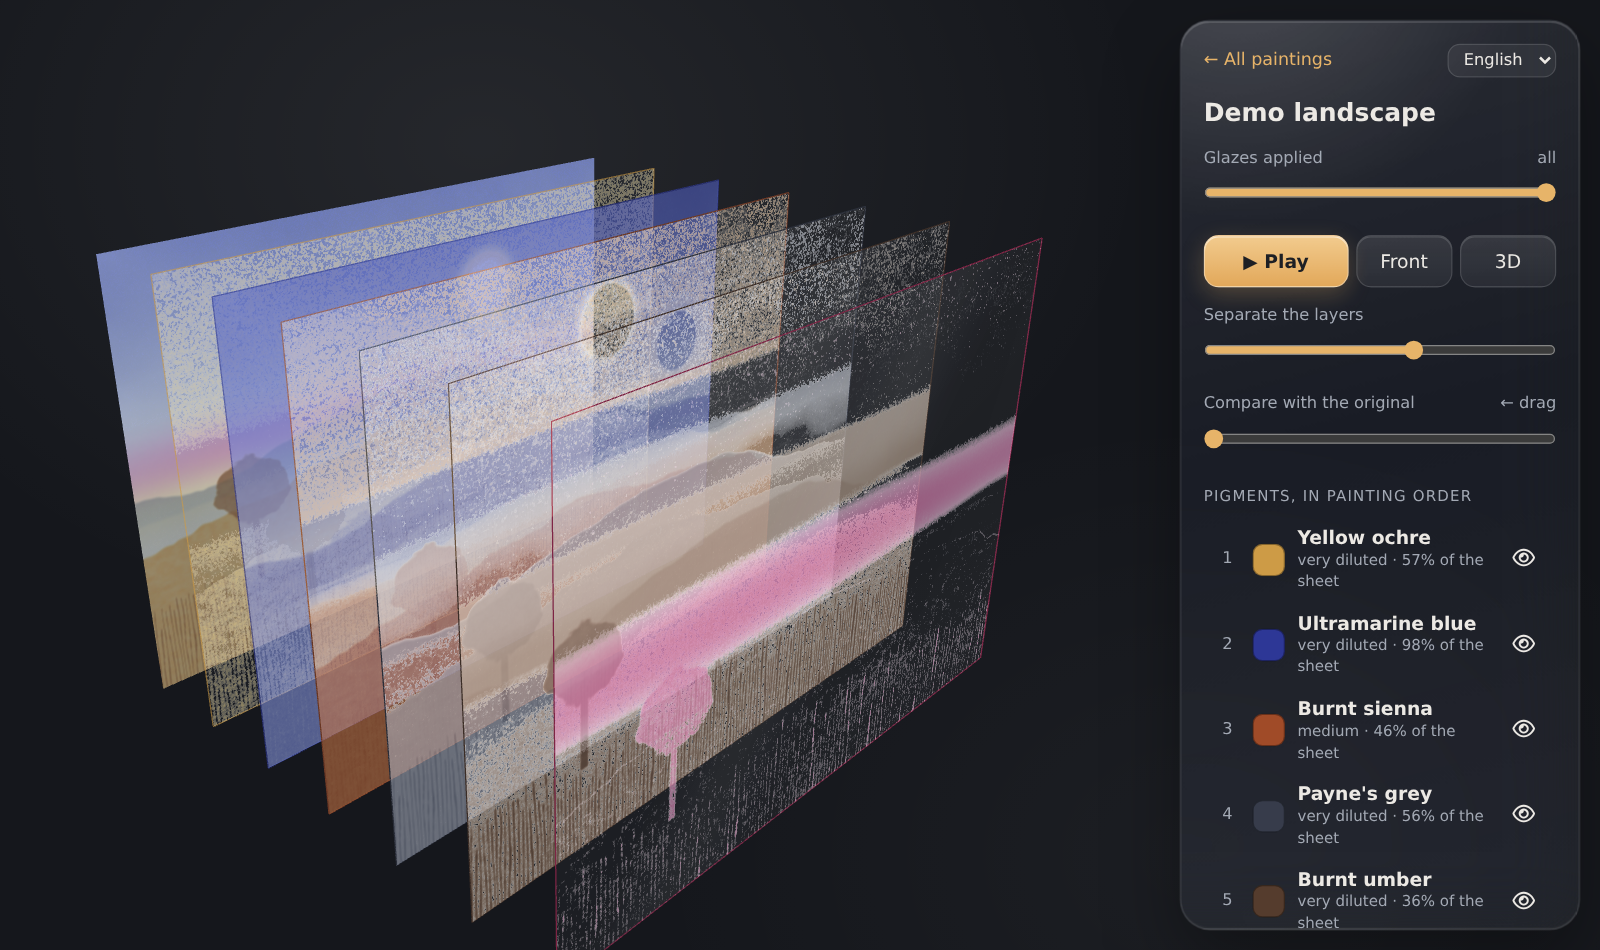
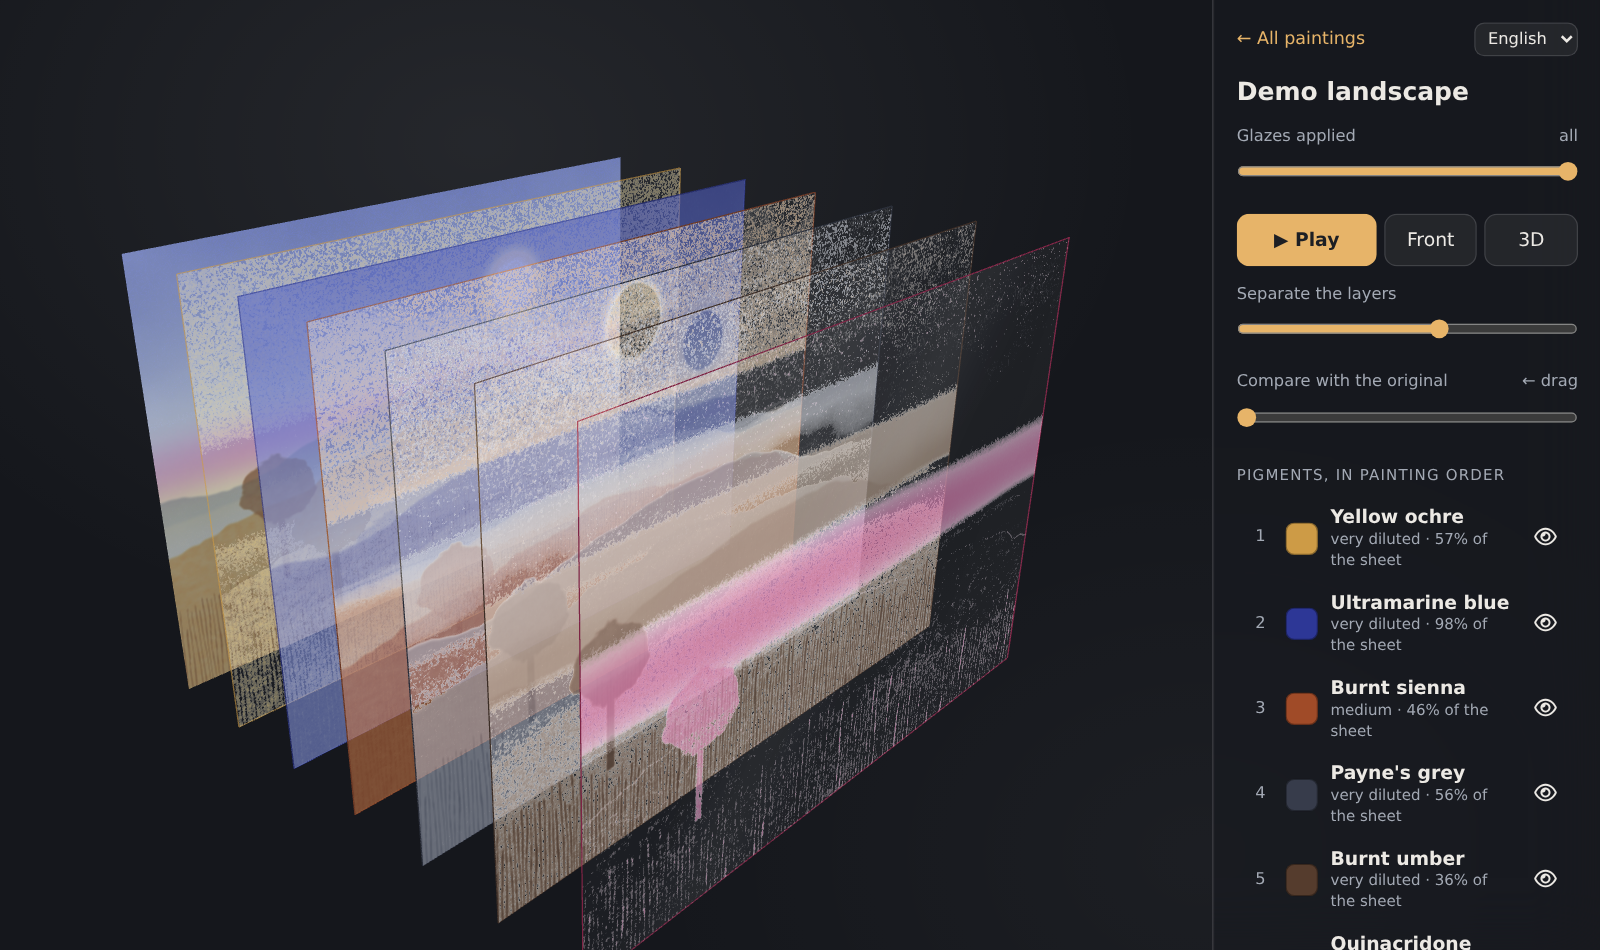
Glass as material only: restore flat geometry (edge-docked panel, original radii, flat buttons)

Changed region(s): [[0.0625, 0.1526, 0.6562, 1.0], [0.7188, 0.0, 1.0, 1.0]]

diff --git a/src/static/viewer.template.html b/src/static/viewer.template.html
@@ -22,25 +22,17 @@ __HEAD__
   #stage canvas { width: 100%; height: 100%; display: block; cursor: grab; }
   #stage canvas:active { cursor: grabbing; }
 
-  /* Glass: blur + saturate what's behind, hairline border, soft specular highlight on top. */
-  .glass {
-    background:
-      radial-gradient(120% 50% at 15% -8%, rgba(255, 255, 255, 0.16), transparent 60%),
-      linear-gradient(165deg, rgba(255, 255, 255, 0.09), rgba(255, 255, 255, 0.025) 45%, rgba(255, 255, 255, 0.05));
-    -webkit-backdrop-filter: blur(26px) saturate(170%);
-    backdrop-filter: blur(26px) saturate(170%);
-    border: 1px solid var(--glass-line);
-    box-shadow: inset 0 1px 0 rgba(255, 255, 255, 0.22), inset 0 -1px 0 rgba(255, 255, 255, 0.04), 0 24px 60px rgba(0, 0, 0, 0.35);
-  }
+  /* Glass = material only: translucent surface + backdrop blur + hairline edge. Shapes stay flat. */
+  .glass { background: rgba(24, 26, 31, 0.62); -webkit-backdrop-filter: blur(24px) saturate(140%); backdrop-filter: blur(24px) saturate(140%); }
 
-  #caption { position: absolute; left: 50%; bottom: 20px; transform: translateX(-50%); max-width: calc(100% - 32px);
-             padding: 9px 16px; border-radius: 999px; font-weight: 600;
+  #caption { position: absolute; left: 50%; bottom: 18px; transform: translateX(-50%); max-width: calc(100% - 32px);
+             padding: 8px 14px; border-radius: 999px; font-weight: 600; border: 1px solid var(--glass-line);
              white-space: nowrap; overflow: hidden; text-overflow: ellipsis; pointer-events: none; }
   #loading { position: absolute; inset: 0; display: grid; place-items: center; background: var(--bg); color: var(--muted); }
-  aside { position: fixed; top: 16px; right: 16px; bottom: 16px; width: 320px; padding: 18px; border-radius: 24px;
+  aside { position: fixed; top: 0; right: 0; bottom: 0; width: 310px; padding: 18px; border-left: 1px solid var(--glass-line);
           overflow-y: auto; display: flex; flex-direction: column; gap: 14px; }
   .top { display: flex; justify-content: space-between; align-items: center; gap: 8px; }
-  select.lang { background: var(--glass); color: var(--fg); border: 1px solid var(--glass-line); border-radius: 10px; padding: 4px 8px; font: inherit; font-size: 13px; }
+  select.lang { background: var(--glass); color: var(--fg); border: 1px solid var(--glass-line); border-radius: 8px; padding: 4px 6px; font: inherit; font-size: 13px; }
   #home { color: var(--accent); text-decoration: none; font-size: 14px; }
   h1 { font-size: 20px; margin: 0; overflow-wrap: anywhere; }
   .ctl label { display: flex; justify-content: space-between; font-size: 13px; color: var(--muted); margin-bottom: 4px; }
@@ -48,29 +40,23 @@ __HEAD__
   .btns { display: grid; grid-template-columns: 1.5fr 1fr 1fr; gap: 6px; }
   .btns button { white-space: nowrap; padding: 0 6px; }
   button { font: inherit; color: inherit; }
-  .btns button, #save, #export {
-    min-height: 42px; border-radius: 12px; cursor: pointer;
-    background: linear-gradient(180deg, var(--glass-hi), var(--glass)); border: 1px solid var(--glass-line);
-    box-shadow: inset 0 1px 0 rgba(255, 255, 255, 0.14); transition: background .15s, transform .1s;
-  }
-  .btns button:hover, #save:hover, #export:hover { background: linear-gradient(180deg, rgba(255, 255, 255, 0.17), var(--glass-hi)); }
-  .btns button:active, #save:active, #export:active { transform: scale(0.98); }
-  #play { background: linear-gradient(180deg, #f2cb8e, #e2a85a); color: #1d1f24; border-color: rgba(255, 255, 255, 0.35); font-weight: 700;
-          box-shadow: inset 0 1px 0 rgba(255, 255, 255, 0.55), 0 6px 18px rgba(231, 180, 105, 0.25); }
-  #play:hover { background: linear-gradient(180deg, #f6d6a2, #e7b469); }
+  .btns button, #save, #export { min-height: 42px; background: var(--glass); border: 1px solid var(--glass-line); border-radius: 10px; cursor: pointer; transition: background .15s; }
+  .btns button:hover, #save:hover, #export:hover { background: var(--glass-hi); }
+  #play { background: var(--accent); color: #1d1f24; border-color: transparent; font-weight: 700; }
+  #play:hover { background: #edc285; }
   .sect { font-size: 12px; text-transform: uppercase; letter-spacing: .08em; color: var(--muted); margin: 4px 0 -6px; }
-  .layer { display: flex; align-items: center; gap: 10px; padding: 7px 8px; border-radius: 12px; cursor: pointer;
+  .layer { display: flex; align-items: center; gap: 10px; padding: 7px 8px; border-radius: 10px; cursor: pointer;
            user-select: none; border: 1px solid transparent; transition: opacity .15s, background .15s; }
   .layer:hover { background: var(--glass); }
-  .layer.solo { border-color: rgba(231, 180, 105, 0.7); background: var(--glass-hi); box-shadow: inset 0 1px 0 rgba(255, 255, 255, 0.12); }
+  .layer.solo { border-color: var(--accent); background: var(--glass); }
   .layer.off { opacity: .42; }
   .num { width: 20px; text-align: center; color: var(--muted); font-size: 13px; }
   /* Flat on purpose: the swatch is the pigment's color, no gloss that would shift it. */
-  .sw { width: 26px; height: 26px; border-radius: 8px; border: 1px solid rgba(0, 0, 0, 0.35); flex: none; }
+  .sw { width: 26px; height: 26px; border-radius: 7px; border: 1px solid rgba(0, 0, 0, 0.35); flex: none; }
   .txt { flex: 1; min-width: 0; display: flex; flex-direction: column; }
   .txt b { font-weight: 600; overflow-wrap: anywhere; line-height: 1.25; }
   .txt small { color: var(--muted); font-size: 12px; }
-  .eye { width: 34px; height: 34px; border-radius: 10px; background: none; border: 0; cursor: pointer; font-size: 16px; }
+  .eye { width: 34px; height: 34px; border-radius: 8px; background: none; border: 0; cursor: pointer; font-size: 16px; }
   .eye:hover { background: var(--glass-hi); }
   .hint { font-size: 12px; color: var(--muted); margin: 0; }
   .warn { font-size: 12px; margin: -6px 0 0; color: #f0b59a; }
@@ -82,7 +68,7 @@ __HEAD__
   @media (max-width: 760px) {
     html, body { overflow: auto; height: auto; }
     #stage { position: relative; height: 58vh; }
-    aside { position: relative; inset: auto; width: auto; margin: 10px; border-radius: 22px; padding: 14px; overflow: visible;
+    aside { position: relative; inset: auto; width: 100%; padding: 14px; overflow: visible; border-left: 0; border-top: 1px solid var(--glass-line);
             -webkit-backdrop-filter: none; backdrop-filter: none; }
     #caption { bottom: 10px; font-size: 13px; }
   }

diff --git a/src/static/style.css b/src/static/style.css
@@ -1,7 +1,6 @@
 :root {
   color-scheme: dark;
-  --bg: #15171c; --panel: rgba(255, 255, 255, 0.055); --panel2: rgba(255, 255, 255, 0.09); --line: rgba(255, 255, 255, 0.13);
-  --glass-shadow: inset 0 1px 0 rgba(255, 255, 255, 0.2), inset 0 -1px 0 rgba(255, 255, 255, 0.04), 0 18px 48px rgba(0, 0, 0, 0.3);
+  --bg: #15171c; --panel: rgba(255, 255, 255, 0.045); --panel2: rgba(255, 255, 255, 0.08); --line: rgba(255, 255, 255, 0.11);
   --fg: #ece9e4; --muted: #9aa0ab; --accent: #e7b469; --accent-fg: #1d1f24; --err: #ef8a80; --ok: #9fd39a;
   font: 16px/1.5 system-ui, -apple-system, "Segoe UI", sans-serif;
 }
@@ -17,28 +16,21 @@ h1 { font-size: 28px; margin: 8px 0 2px; letter-spacing: .3px; }
 h2 { font-size: 19px; margin: 0 0 12px; }
 .sub { color: var(--muted); margin: 0 0 24px; }
 a { color: var(--accent); }
-/* Glass cards: blurred, slightly saturated backdrop, hairline border, soft specular highlight on top. */
+/* Glass = material only: translucent surface + backdrop blur + hairline edge. */
 section, .card, dialog {
-  background:
-    radial-gradient(120% 60% at 12% -10%, rgba(255, 255, 255, 0.12), transparent 60%),
-    linear-gradient(165deg, rgba(255, 255, 255, 0.075), rgba(255, 255, 255, 0.025) 50%, rgba(255, 255, 255, 0.045));
-  -webkit-backdrop-filter: blur(22px) saturate(160%);
-  backdrop-filter: blur(22px) saturate(160%);
+  background: var(--panel);
+  -webkit-backdrop-filter: blur(20px) saturate(140%);
+  backdrop-filter: blur(20px) saturate(140%);
   border: 1px solid var(--line);
-  box-shadow: var(--glass-shadow);
 }
-section, .card { border-radius: 20px; padding: 18px; margin: 16px 0; }
+section, .card { border-radius: 14px; padding: 18px; margin: 16px 0; }
 .btn {
   display: inline-flex; align-items: center; justify-content: center; gap: 8px;
   min-height: 48px; padding: 0 20px; border-radius: 12px; border: 1px solid var(--line);
-  background: linear-gradient(180deg, rgba(255, 255, 255, 0.12), rgba(255, 255, 255, 0.05));
-  box-shadow: inset 0 1px 0 rgba(255, 255, 255, 0.14);
-  color: var(--fg); font: inherit; font-weight: 600; cursor: pointer; text-decoration: none; transition: transform .1s, filter .15s;
+  background: var(--panel2); color: var(--fg); font: inherit; font-weight: 600; cursor: pointer; text-decoration: none;
 }
 .btn:hover { filter: brightness(1.15); }
-.btn:active { transform: scale(0.985); }
-.btn.primary { background: linear-gradient(180deg, #f2cb8e, #e2a85a); color: var(--accent-fg); border-color: rgba(255, 255, 255, 0.35);
-  box-shadow: inset 0 1px 0 rgba(255, 255, 255, 0.55), 0 6px 18px rgba(231, 180, 105, 0.22); }
+.btn.primary { background: var(--accent); color: var(--accent-fg); border-color: transparent; }
 .btn:disabled { opacity: .45; cursor: default; filter: none; }
 .btn.block { width: 100%; }
 .row { display: flex; gap: 10px; flex-wrap: wrap; align-items: center; }
@@ -57,8 +49,7 @@ input[type=file] { display: none; }
 .swatches { display: flex; gap: 4px; flex-wrap: wrap; }
 .chip { width: 22px; height: 22px; border-radius: 6px; border: 1px solid #0006; flex: none; }
 .grid { display: grid; grid-template-columns: repeat(auto-fill, minmax(160px, 1fr)); gap: 12px; }
-.paint { display: block; background: var(--panel2); border: 1px solid var(--line); border-radius: 16px; overflow: hidden;
-  text-decoration: none; color: inherit; box-shadow: inset 0 1px 0 rgba(255, 255, 255, 0.12); }
+.paint { display: block; background: var(--panel2); border-radius: 12px; overflow: hidden; text-decoration: none; color: inherit; }
 .paint img { width: 100%; aspect-ratio: 3 / 4; object-fit: cover; display: block; background: #111; }
 .paint > a > div { padding: 8px 10px 10px; }
 .paint b { display: block; font-size: 14px; white-space: nowrap; overflow: hidden; text-overflow: ellipsis; }
@@ -79,11 +70,11 @@ main { padding-top: max(20px, env(safe-area-inset-top)); padding-bottom: max(64p
 .paint > a { display: block; text-decoration: none; color: inherit; }
 .paint .meta { font-size: 12px; color: var(--muted); margin: 2px 0 6px; white-space: nowrap; overflow: hidden; text-overflow: ellipsis; }
 .actions { display: flex; gap: 4px; padding: 0 6px 8px; }
-.icon-btn { flex: 1; min-height: 38px; border-radius: 10px; border: 1px solid var(--line); background: rgba(255, 255, 255, 0.05); color: var(--fg); font: inherit; cursor: pointer; }
+.icon-btn { flex: 1; min-height: 38px; border-radius: 8px; border: 1px solid var(--line); background: var(--panel); color: var(--fg); font: inherit; cursor: pointer; }
 .icon-btn:hover { filter: brightness(1.2); }
 .icon-btn.danger:hover { border-color: var(--err); color: var(--err); }
 .badge { font-size: 11px; padding: 1px 6px; border-radius: 6px; border: 1px solid var(--accent); color: var(--accent); margin-left: 6px; }
-dialog { background-color: rgba(30, 32, 38, 0.72); color: var(--fg); border-radius: 22px; padding: 18px; width: min(520px, calc(100vw - 24px)); max-height: 85vh; }
+dialog { background: rgba(28, 30, 36, 0.78); color: var(--fg); border-radius: 14px; padding: 18px; width: min(520px, calc(100vw - 24px)); max-height: 85vh; }
 dialog::backdrop { background: #000a; }
 .pick { display: flex; align-items: center; gap: 10px; padding: 6px 0; }
 .pick input { width: 20px; height: 20px; accent-color: var(--accent); }

diff --git a/src/viewer/viewer.js b/src/viewer/viewer.js
@@ -340,7 +340,7 @@ export function startViewer(data, { homeHref, onExport } = {}) {
     // Desktop: the glass panel floats over the right side. Frame the scene for the free area
     // (w - covered) and let the rendered view extend under the panel.
     const panel = document.querySelector("aside");
-    const covered = panel && getComputedStyle(panel).position === "fixed" ? panel.offsetWidth + 32 : 0;
+    const covered = panel && getComputedStyle(panel).position === "fixed" ? panel.offsetWidth : 0;
     const free = Math.max(w - covered, w * 0.4);
     camera.aspect = free / h;
     // On narrow areas (portrait phones) zoom out so the painting fits.
